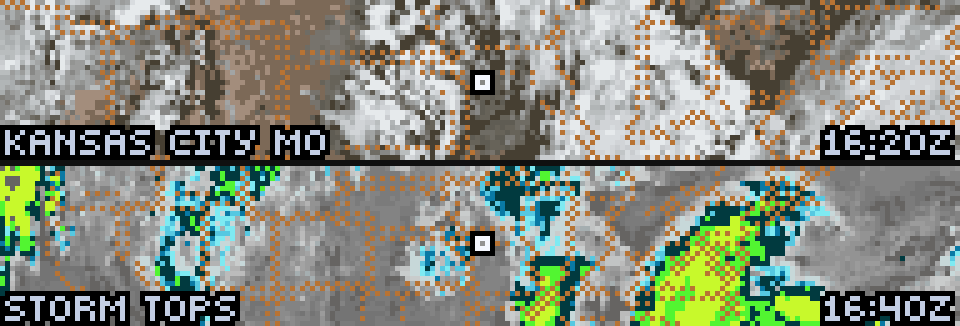
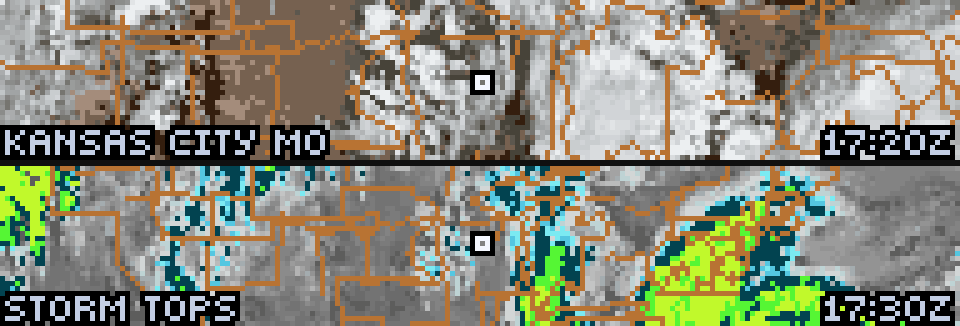
Stop drawing every shared state line twice
The borders looked like scaffolding and I had been fixing the paint rather
than the wall. Rings were the wrong unit. Kansas and Nebraska each carry
the line between them, Douglas-Peucker ran over each ring on its own and
kept different vertices on each pass, and the two copies landed a pixel
apart. Most of what looked like a map was railroad track: 18 percent of the
panel lit, and nothing readable in it.

So rings are not the unit any more. Every point is snapped to an eighth of a
degree first, which makes a shared boundary the same sequence of points on
both sides; the rings are broken into segments; 838 duplicates are dropped;
the survivors are chained back into polylines; and only then simplified,
which is safe because no two chains run alongside each other. Same country,
11 percent of the panel instead of 18, and every line a single stroke.

An eighth of a degree is about 14 km, under one pixel at the close zoom and
well under it on the storm page, so nothing is lost by the coarser grid.
The table is 3.3 KB.

The dotting goes with it. It was compensating for the doubling, and with one
stroke per border a solid line is both quieter and clearer. That also drops
the per-pixel drawing in favour of line ops: 164 on the close page and 295
on the storm page, where the dots cost 474 and 611.

The app is 0.75 MiB.

diff --git a/apps/overhead/README.md b/apps/overhead/README.md
@@ -124,20 +124,34 @@ sky has no business inventing one.
 NASA is no help here. `Reference_Features` draws nothing at all through
 WMS, and the `Coastlines` layer put 19 lit pixels on a 6144-pixel panel —
 anti-aliased hairlines do not survive a downscale to 32 rows. So the
-outlines are carried in the app instead: the US Census cartographic
-boundary file, simplified with Douglas-Peucker at 0.15 degrees and quantised
-to sixteenths of a degree, which is about 7 km and comfortably inside one
-pixel at any zoom offered here. That packs to a 3.4 KB string.
+outlines are carried in the app instead, from the US Census cartographic
+boundary file.
 
-Drawing them is one pass: decode, project into the frame, skip any segment
-whose ends land on the same pixel or that falls entirely off one edge. What
-is left is 474 lit pixels on the close page and 611 on the storm page.
+**Rings are the wrong unit, and getting that wrong is very visible.** The
+first version simplified each state's boundary on its own. Kansas and
+Nebraska each carry the line between them; Douglas-Peucker kept different
+vertices on each pass; the two copies landed a pixel apart. Most of what
+looked like a map was railroad track — 18% of the panel lit, and
+unreadable.
 
-Solid amber was the first attempt and it looked like a road atlas laid over
-the sky — at this size a one-pixel line carries roughly six times the weight
-it would on a screen. Copper, dotted on alternate pixels, places the weather
-without swallowing it. The dots key off `(x + y)` rather than distance along
-a segment, so the pattern stays in step where outlines meet.
+What works instead: snap every point to an eighth of a degree first, so a
+shared boundary becomes the *same* sequence of points on both sides; break
+the rings into segments; drop the duplicates (838 of them); chain the
+survivors back into polylines; and only then simplify, which is now safe
+because no two chains run alongside each other. Same country, **11% of the
+panel instead of 18%**, and every line a single stroke.
+
+An eighth of a degree is about 14 km — under one pixel at the close zoom,
+where one pixel is 0.2°, and well under it on the storm page. The whole
+table packs into a 3.3 KB string.
+
+Drawing is one pass: decode, project, skip any segment whose ends land on
+the same pixel or that falls entirely off one edge. That leaves 164 line
+ops on the close page and 295 on the storm page, against a 4096 limit.
+
+The lines were dotted for a while, which was treating the symptom. Once the
+table was fixed, a solid line turned out to be both quieter and clearer —
+there is only one of it now. Copper, because amber read like a road atlas.
 
 ## Notes on the drawing
 
